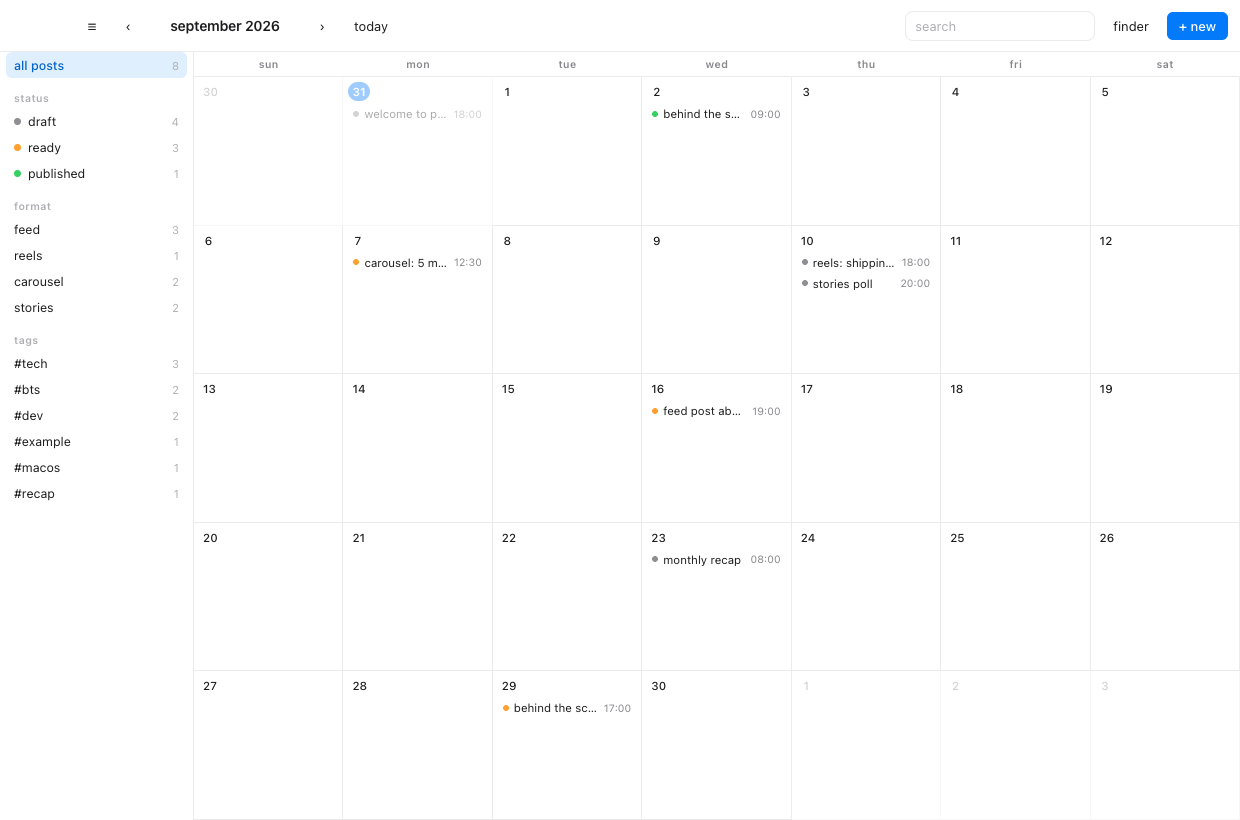
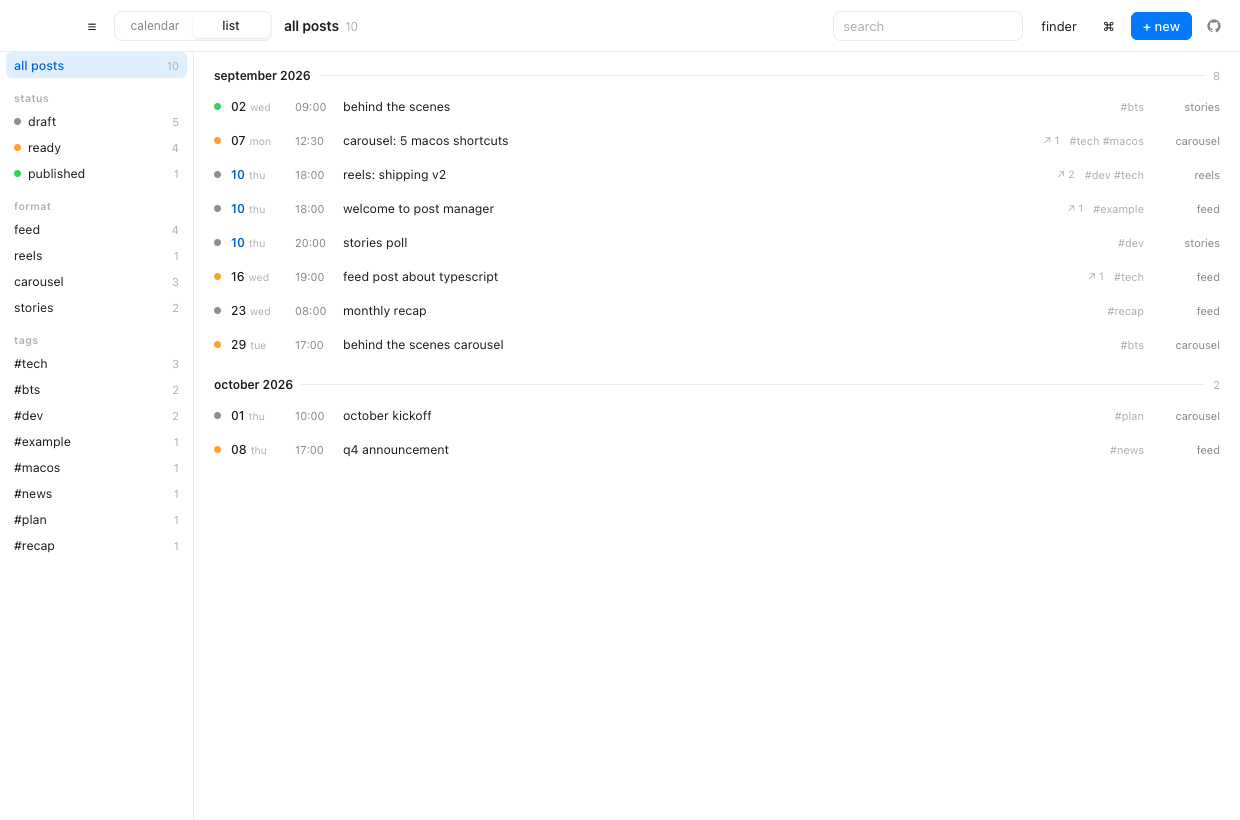
docs: refresh the readme for the list view and rendered captions
The calendar and preview screenshots predated the view switch, so the toolbar
in them no longer matched the app. Regenerates every shot from one seeded vault
and documents that a caption now opens rendered rather than as markup.

diff --git a/README.md b/README.md
@@ -67,7 +67,11 @@ clicking a row opens the same editor.
 </p>
 
 captions support headings, bold, italic, strikethrough, code, links, lists and
-quotes, with a live preview and the 2,200 character instagram limit in view.
+quotes, with the 2,200 character instagram limit in view.
+
+a post with a caption **opens rendered** — reading it is the common case, and
+markup is noise when you just want to reread your copy. switch to `write` to
+edit; a post with nothing in it yet opens ready to type.
 
 each post also keeps a list of **reference links** — the article you're reacting
 to, the figma file, the doc you're citing. paste a url, hit enter, click it later
